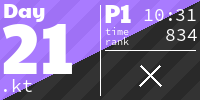
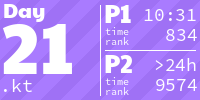
Year 2023 / Day21 p2

diff --git a/AoC/src/Year2023/Day21.kt b/AoC/src/Year2023/Day21.kt
@@ -1,19 +1,24 @@
 package Year2023
 
+import CharGrid
 import Point
 import adjacentSides
 import charGrid
+import gridSize
 import readInput
 import testInput
 
 fun main() {
 
-    fun part1(input: List<String>, steps: Int = 64): Int {
-        val (grid, n, m) = input.charGrid()
-        val i = grid.indexOfFirst { 'S' in it }
-        val j = grid[i].indexOf('S')
-        val start = Point(i, j)
+    fun CharGrid.start(): Point {
+        return indexOfFirst { 'S' in it }.let { i ->
+            val j = this[i].indexOf('S')
+            Point(i, j)
+        }
+    }
 
+    fun CharGrid.count(start: Point, steps: Int): Int {
+        val (n, m) = gridSize()
         val toVisit = mutableListOf(start)
         repeat(steps) {
             val newToVisit = mutableSetOf<Point>()
@@ -21,7 +26,7 @@ fun main() {
                 val p = toVisit.removeFirst()
                 p.adjacentSides()
                     .filter { (i, j) -> i in 0 until n && j in 0 until m }
-                    .filter { (i, j) -> grid[i][j] != '#' }
+                    .filter { (i, j) -> this[i][j] != '#' }
                     .filterNot { it in toVisit }
                     .forEach(newToVisit::add)
             }
@@ -30,12 +35,52 @@ fun main() {
         return toVisit.size
     }
 
-    fun part2(input: List<String>, steps: Int = 26501365): Int {
-        TODO()
+    fun part1(input: List<String>, steps: Int = 64): Int {
+        val (grid) = input.charGrid()
+        val start = grid.start()
+        return grid.count(start, steps)
     }
 
-    val testInput = testInput(
-        """
+    fun part2(input: List<String>): Long {
+        val (grid, size) = input.charGrid()
+        val start = grid.start()
+        val steps = 26501365
+        val repeats = (steps / size) - 1
+
+        val odds = (1..(repeats / 2)).fold(1L) { acc, i -> acc + i * 8 }
+        val evens = (0..repeats / 2).fold(0L) { acc, i -> acc + i * 8 + 4 }
+
+        val oddCount = grid.count(start, size * 2 + 1)
+        val evenCount = grid.count(start, size * 2)
+
+        val topCorner = grid.count(start.copy(first = 0), size - 1)
+        val bottomCorner = grid.count(start.copy(first = size - 1), size - 1)
+        val leftCorner = grid.count(start.copy(second = 0), size - 1)
+        val rightCorner = grid.count(start.copy(second = size - 1), size - 1)
+
+        val smallCorners = (((repeats / 2 + 1) * 8 + 4) - 4) / 4
+        val smallTopRight = grid.count(Point(0, 0), size / 2 - 1)
+        val smallTopLeft = grid.count(Point(0, size - 1), size / 2 - 1)
+        val smallBottomRight = grid.count(Point(size - 1, 0), size / 2 - 1)
+        val smallBottomLeft = grid.count(Point(size - 1, size - 1), size / 2 - 1)
+
+        val largeCorners = (((repeats / 2 + 1) * 8 + 4) - 4) / 4 - 1
+        val largeTopRight = grid.count(Point(0, 0), size * 3 / 2 - 1)
+        val largeTopLeft = grid.count(Point(0, size - 1), size * 3 / 2 - 1)
+        val largeBottomRight = grid.count(Point(size - 1, 0), size * 3 / 2 - 1)
+        val largeBottomLeft = grid.count(Point(size - 1, size - 1), size * 3 / 2 - 1)
+
+        return odds * oddCount +
+                evens * evenCount +
+                topCorner +
+                bottomCorner +
+                leftCorner +
+                rightCorner +
+                smallCorners * (smallTopRight + smallTopLeft + smallBottomRight + smallBottomLeft) +
+                largeCorners * (largeTopRight + largeTopLeft + largeBottomRight + largeBottomLeft)
+    }
+
+    val testInput = testInput("""
         ...........
         .....###.#.
         .###.##..#.
@@ -47,14 +92,12 @@ fun main() {
         .##.#.####.
         .##..##.##.
         ...........
-    """.trimIndent()
-    )
+    """)
     check(part1(testInput, 6).also { println("part1 test: $it") } == 16)
-//    check(part2(testInput, 6).also { println("part2 test: $it") } == 16)
-//    check(part2(testInput, 10).also { println("part2 test: $it") } == 50)
-//    check(part2(testInput, 50).also { println("part2 test: $it") } == 1594)
+    // Not working on test input.
+    // check(part2(testInput, 6).also { println("part2 test: $it") } == 16L)
 
     val input = readInput("Year2023/Day21")
     println(part1(input))
-//    println(part2(input))
+    println(part2(input))
 }

diff --git a/README.md b/README.md
@@ -2,7 +2,7 @@
 
 <!-- AOC TILES BEGIN -->
 <h1 align="center">
-  2023 - 43 ⭐
+  2023 - 44 ⭐
 </h1>
 <a href="AoC/src/Year2023/Day01.kt">
   <img src="Media/2023/01.png" width="161px">
